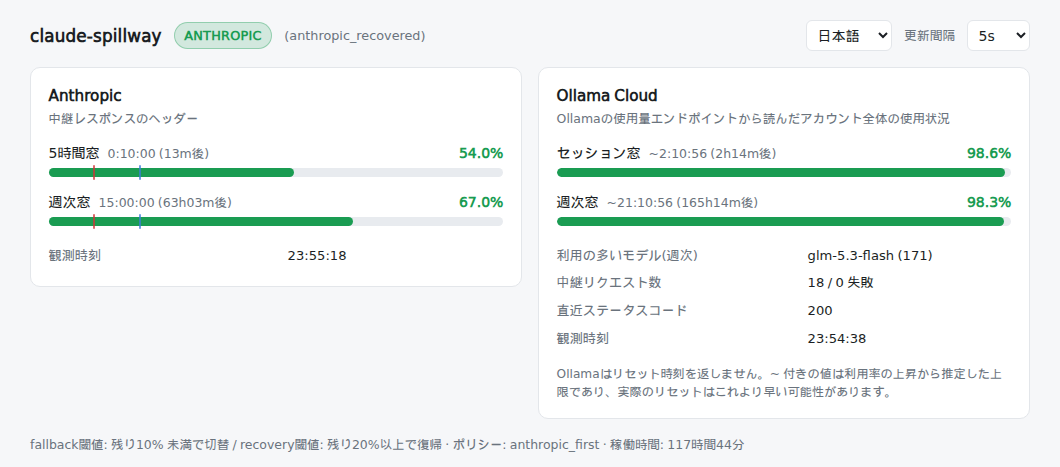
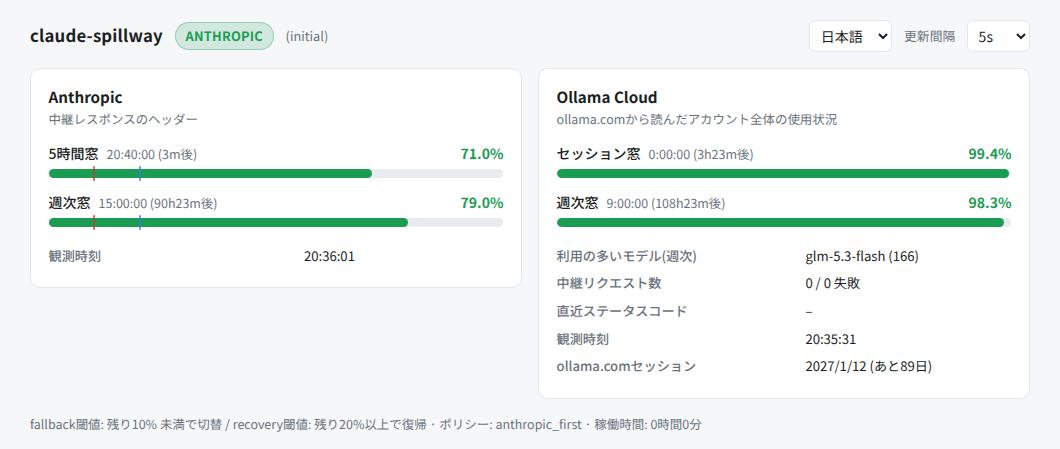
Refresh the README dashboard screenshots
The old images still showed estimated (~) Ollama resets and the note about
Ollama reporting none. The new ones show measured resets and the ollama.com
session expiry. scripts/dashboard_screenshot.py captures both languages from
a running proxy, so the next refresh is one command.

diff --git a/scripts/dashboard_screenshot.py b/scripts/dashboard_screenshot.py
@@ -1,0 +1,69 @@
+"""Capture the dashboard of a running proxy for the README, one image per language.
+
+Run against a proxy that has seen real traffic, so both cards hold numbers:
+
+    uv run --extra login python scripts/dashboard_screenshot.py
+
+稼働中プロキシのダッシュボードを、README用に言語ごとに撮影するスクリプト。
+両方のカードに数値が出ている(実トラフィックが流れた)プロキシに対して実行する。
+"""
+
+from __future__ import annotations
+
+import argparse
+from pathlib import Path
+
+from playwright.sync_api import sync_playwright
+
+#: 言語コードと、ブラウザに名乗らせるロケール。
+#: Language code -> the locale the browser announces.
+_LOCALES = {"en": "en-US", "ja": "ja-JP"}
+
+
+def _parse_args() -> argparse.Namespace:
+    parser = argparse.ArgumentParser(description="Capture docs/images/dashboard-<lang>.png from a running proxy.")
+    parser.add_argument("--url", default="http://127.0.0.1:8787/_spillway/", help="dashboard URL")
+    parser.add_argument("--out-dir", type=Path, default=Path("docs/images"), help="output directory")
+    parser.add_argument("--langs", nargs="+", default=list(_LOCALES), choices=list(_LOCALES), help="languages")
+    parser.add_argument("--width", type=int, default=1060, help="viewport width in CSS pixels")
+    parser.add_argument("--scale", type=float, default=1.0, help="device scale factor")
+    parser.add_argument("--channel", default="chrome", help="browser channel (chrome / msedge / chromium)")
+    return parser.parse_args()
+
+
+def main() -> None:
+    """Capture one full-page screenshot per language.
+
+    言語ごとにページ全体のスクリーンショットを1枚撮る。
+    """
+    args = _parse_args()
+    args.out_dir.mkdir(parents=True, exist_ok=True)
+    with sync_playwright() as playwright:
+        browser = playwright.chromium.launch(
+            channel=None if args.channel == "chromium" else args.channel, headless=True
+        )
+        for lang in args.langs:
+            # 新しいコンテキストごとに保存済みの言語選択(localStorage)は空なので、
+            # 表示言語は Accept-Language で決まる。
+            # Each fresh context has no saved language choice in localStorage,
+            # so Accept-Language decides the display language.
+            context = browser.new_context(
+                locale=_LOCALES[lang],
+                viewport={"width": args.width, "height": 400},
+                device_scale_factor=args.scale,
+                extra_http_headers={"Accept-Language": _LOCALES[lang]},
+            )
+            page = context.new_page()
+            page.goto(args.url, wait_until="networkidle")
+            # 最初のステータス取得が終わり、カードが表示されるまで待つ。
+            # Wait for the first status poll to fill in and reveal the cards.
+            page.wait_for_selector("#grid:not([hidden])")
+            out = args.out_dir / f"dashboard-{lang}.png"
+            page.screenshot(path=str(out), full_page=True)
+            print(f"wrote {out}")
+            context.close()
+        browser.close()
+
+
+if __name__ == "__main__":
+    main()
